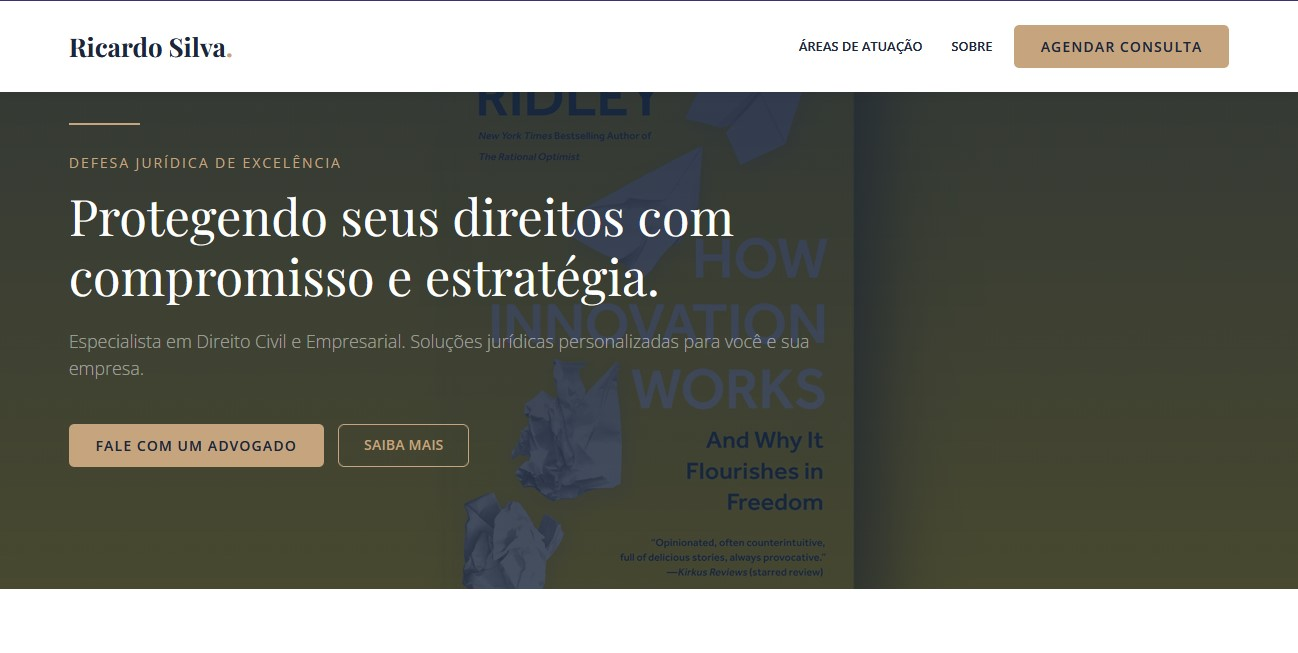
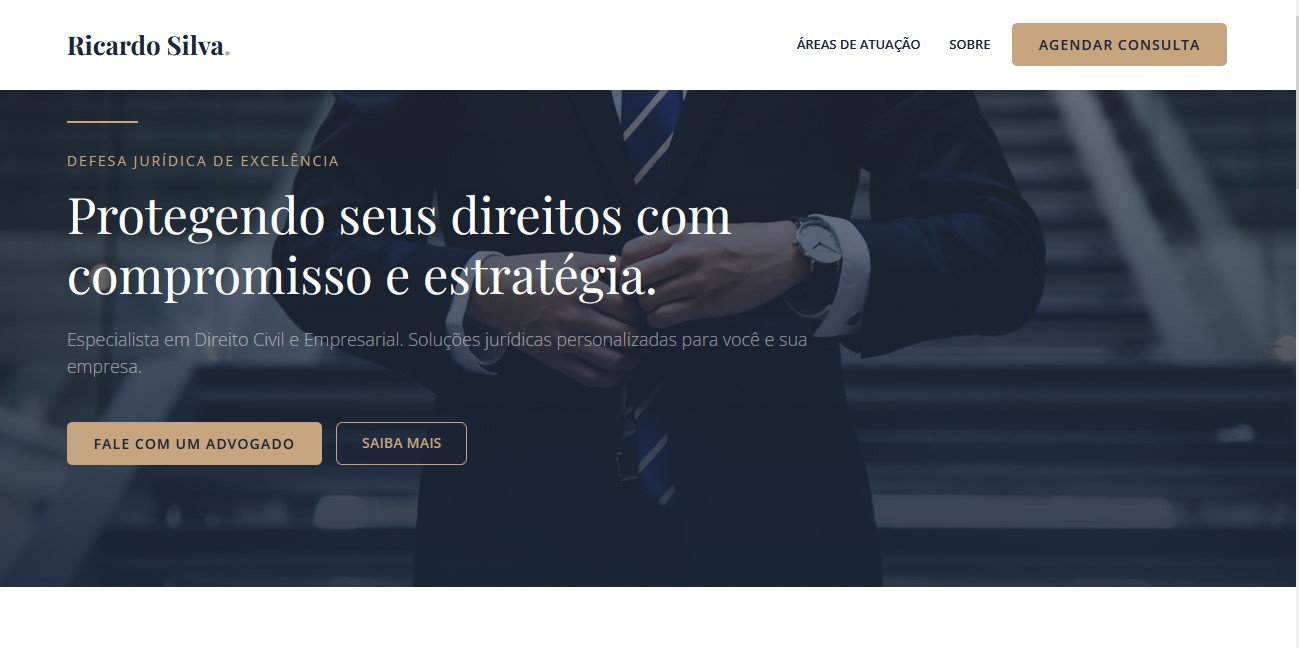
Ajustes no advogado e no personal

diff --git a/lps/advogado/index.html b/lps/advogado/index.html
@@ -1,13 +1,16 @@
 <!DOCTYPE html>
 <html lang="pt-br">
+
 <head>
     <meta charset="UTF-8">
     <meta name="viewport" content="width=device-width, initial-scale=1.0">
     <title>Dr. Ricardo Silva | Advocacia Especializada</title>
     <link href="https://cdn.jsdelivr.net/npm/bootstrap@5.3.0/dist/css/bootstrap.min.css" rel="stylesheet">
     <link href="https://cdnjs.cloudflare.com/ajax/libs/font-awesome/6.4.0/css/all.min.css" rel="stylesheet">
-    <link href="https://fonts.googleapis.com/css2?family=Playfair+Display:wght@400;700&family=Open+Sans:wght@300;400;600&display=swap" rel="stylesheet">
-    
+    <link
+        href="https://fonts.googleapis.com/css2?family=Playfair+Display:wght@400;700&family=Open+Sans:wght@300;400;600&display=swap"
+        rel="stylesheet">
+
     <style>
         :root {
             --navy: #1B263B;
@@ -15,58 +18,141 @@
             --white: #ffffff;
             --light-gray: #f4f4f4;
         }
-        body { font-family: 'Open Sans', sans-serif; color: #333; }
-        h1, h2, h3, h4, .navbar-brand { font-family: 'Playfair Display', serif; color: var(--navy); }
-        
+
+        body {
+            font-family: 'Open Sans', sans-serif;
+            color: #333;
+        }
+
+        h1,
+        h2,
+        h3,
+        h4,
+        .navbar-brand {
+            font-family: 'Playfair Display', serif;
+            color: var(--navy);
+        }
+
         /* Navbar */
-        .navbar { background: var(--white); box-shadow: 0 2px 10px rgba(0,0,0,0.05); padding: 1.5rem 0; }
-        .navbar-brand { font-weight: 700; font-size: 1.8rem; }
-        .nav-link { color: var(--navy); font-weight: 600; text-transform: uppercase; font-size: 0.9rem; margin-left: 1rem; }
-        .nav-link:hover { color: var(--gold); }
-        
+        .navbar {
+            background: var(--white);
+            box-shadow: 0 2px 10px rgba(0, 0, 0, 0.05);
+            padding: 1.5rem 0;
+        }
+
+        .navbar-brand {
+            font-weight: 700;
+            font-size: 1.8rem;
+        }
+
+        .nav-link {
+            color: var(--navy);
+            font-weight: 600;
+            text-transform: uppercase;
+            font-size: 0.9rem;
+            margin-left: 1rem;
+        }
+
+        .nav-link:hover {
+            color: var(--gold);
+        }
+
         /* Buttons */
         .btn-gold {
-            background-color: var(--gold); color: var(--navy);
-            border: none; padding: 12px 30px;
-            text-transform: uppercase; font-weight: 700; letter-spacing: 1px;
+            background-color: var(--gold);
+            color: var(--navy);
+            border: none;
+            padding: 12px 30px;
+            text-transform: uppercase;
+            font-weight: 700;
+            letter-spacing: 1px;
             transition: all 0.3s;
         }
-        .btn-gold:hover { background-color: var(--navy); color: var(--gold); }
-        
+
+        .btn-gold:hover {
+            background-color: var(--navy);
+            color: var(--gold);
+        }
+
         .btn-outline-gold {
-            border: 2px solid var(--gold); color: var(--gold);
-            padding: 10px 28px; text-transform: uppercase; font-weight: 700;
+            border: 2px solid var(--gold);
+            color: var(--gold);
+            padding: 10px 28px;
+            text-transform: uppercase;
+            font-weight: 700;
             transition: all 0.3s;
         }
-        .btn-outline-gold:hover { background-color: var(--gold); color: var(--navy); }
+
+        .btn-outline-gold:hover {
+            background-color: var(--gold);
+            color: var(--navy);
+        }
 
         /* Hero Section */
         .hero {
-            background: linear-gradient(rgba(27, 38, 59, 0.9), rgba(27, 38, 59, 0.8)), url('https://images.unsplash.com/photo-1589829085413-56de8ae18c73?auto=format&fit=crop&w=1920&q=80');
-            background-size: cover; background-position: center;
-            height: 90vh; display: flex; align-items: center;
+            background: linear-gradient(rgba(27, 38, 59, 0.5), rgba(27, 38, 59, 0.9)), url('https://images.unsplash.com/photo-1507679799987-c73779587ccf?auto=format&fit=crop&w=1920&q=80');
+            background-size: cover;
+            background-position: center;
+            height: 90vh;
+            display: flex;
+            align-items: center;
             color: var(--white);
         }
-        .hero h1 { color: var(--white); font-size: 3.5rem; margin-bottom: 1.5rem; }
-        .hero-line { width: 80px; height: 3px; background: var(--gold); margin-bottom: 2rem; }
+
+        .hero h1 {
+            color: var(--white);
+            font-size: 3.5rem;
+            margin-bottom: 1.5rem;
+        }
+
+        .hero-line {
+            width: 80px;
+            height: 3px;
+            background: var(--gold);
+            margin-bottom: 2rem;
+        }
 
         /* Services */
         .service-card {
-            padding: 3rem 2rem; border: 1px solid #eee; transition: all 0.3s;
-            height: 100%; border-top: 3px solid transparent;
+            padding: 3rem 2rem;
+            border: 1px solid #eee;
+            transition: all 0.3s;
+            height: 100%;
+            border-top: 3px solid transparent;
         }
-        .service-card:hover { border-top: 3px solid var(--gold); box-shadow: 0 10px 30px rgba(0,0,0,0.1); transform: translateY(-5px); }
-        .service-icon { font-size: 2.5rem; color: var(--gold); margin-bottom: 1.5rem; }
+
+        .service-card:hover {
+            border-top: 3px solid var(--gold);
+            box-shadow: 0 10px 30px rgba(0, 0, 0, 0.1);
+            transform: translateY(-5px);
+        }
+
+        .service-icon {
+            font-size: 2.5rem;
+            color: var(--gold);
+            margin-bottom: 1.5rem;
+        }
 
         /* About */
-        .about-section { background-color: var(--light-gray); }
-        
-        /* Contact */
-        .contact-info i { color: var(--gold); width: 30px; }
+        .about-section {
+            background-color: var(--light-gray);
+        }
 
-        footer { background: var(--navy); color: rgba(255,255,255,0.7); padding: 3rem 0; text-align: center; }
+        /* Contact */
+        .contact-info i {
+            color: var(--gold);
+            width: 30px;
+        }
+
+        footer {
+            background: var(--navy);
+            color: rgba(255, 255, 255, 0.7);
+            padding: 3rem 0;
+            text-align: center;
+        }
     </style>
 </head>
+
 <body>
 
     <!-- Navigation -->
@@ -93,9 +179,11 @@
         <div class="container">
             <div class="col-lg-8">
                 <div class="hero-line"></div>
-                <h6 class="text-uppercase text-white letter-spacing-2 mb-3" style="letter-spacing: 2px; color: var(--gold) !important;">Defesa Jurídica de Excelência</h6>
+                <h6 class="text-uppercase text-white letter-spacing-2 mb-3"
+                    style="letter-spacing: 2px; color: var(--gold) !important;">Defesa Jurídica de Excelência</h6>
                 <h1>Protegendo seus direitos com compromisso e estratégia.</h1>
-                <p class="lead mb-5 text-white-50">Especialista em Direito Civil e Empresarial. Soluções jurídicas personalizadas para você e sua empresa.</p>
+                <p class="lead mb-5 text-white-50">Especialista em Direito Civil e Empresarial. Soluções jurídicas
+                    personalizadas para você e sua empresa.</p>
                 <div class="d-flex gap-3">
                     <a href="#contato" class="btn btn-gold">Fale com um Advogado</a>
                     <a href="#atuacao" class="btn btn-outline-gold d-none d-md-inline-block">Saiba Mais</a>
@@ -117,21 +205,24 @@
                     <div class="service-card bg-white text-center">
                         <i class="fas fa-scale-balanced service-icon"></i>
                         <h4>Direito Civil</h4>
-                        <p class="text-muted mt-3">Resolução de conflitos, contratos, responsabilidade civil e contencioso estratégico.</p>
+                        <p class="text-muted mt-3">Resolução de conflitos, contratos, responsabilidade civil e
+                            contencioso estratégico.</p>
                     </div>
                 </div>
                 <div class="col-md-4">
                     <div class="service-card bg-white text-center">
                         <i class="fas fa-briefcase service-icon"></i>
                         <h4>Direito Empresarial</h4>
-                        <p class="text-muted mt-3">Assessoria completa para empresas, fusões, aquisições e compliance corporativo.</p>
+                        <p class="text-muted mt-3">Assessoria completa para empresas, fusões, aquisições e compliance
+                            corporativo.</p>
                     </div>
                 </div>
                 <div class="col-md-4">
                     <div class="service-card bg-white text-center">
                         <i class="fas fa-users service-icon"></i>
                         <h4>Direito de Família</h4>
-                        <p class="text-muted mt-3">Divórcios, inventários, guarda e pensão com total sigilo e acolhimento.</p>
+                        <p class="text-muted mt-3">Divórcios, inventários, guarda e pensão com total sigilo e
+                            acolhimento.</p>
                     </div>
                 </div>
             </div>
@@ -143,13 +234,17 @@
         <div class="container py-5">
             <div class="row align-items-center">
                 <div class="col-lg-6 mb-4 mb-lg-0">
-                    <img src="https://images.unsplash.com/photo-1556157382-97eda2d62296?auto=format&fit=crop&w=800&q=80" alt="Advogado" class="img-fluid shadow-lg rounded">
+                    <img src="https://images.unsplash.com/photo-1556157382-97eda2d62296?auto=format&fit=crop&w=800&q=80"
+                        alt="Advogado" class="img-fluid shadow-lg rounded">
                 </div>
                 <div class="col-lg-6 ps-lg-5">
                     <h6 class="text-uppercase" style="color: var(--gold); letter-spacing: 2px;">Sobre o Escritório</h6>
                     <h2 class="mb-4">Experiência e Confiança</h2>
-                    <p class="text-muted mb-4">Com mais de 15 anos de atuação, nosso escritório se destaca pela ética, transparência e resultados. Entendemos que por trás de cada processo existe uma história e uma necessidade real.</p>
-                    <p class="text-muted mb-4">Nossa missão é prover segurança jurídica para que nossos clientes possam focar no que realmente importa em suas vidas e negócios.</p>
+                    <p class="text-muted mb-4">Com mais de 15 anos de atuação, nosso escritório se destaca pela ética,
+                        transparência e resultados. Entendemos que por trás de cada processo existe uma história e uma
+                        necessidade real.</p>
+                    <p class="text-muted mb-4">Nossa missão é prover segurança jurídica para que nossos clientes possam
+                        focar no que realmente importa em suas vidas e negócios.</p>
                     <div class="row mt-4">
                         <div class="col-6">
                             <h2 class="display-4 fw-bold" style="color:var(--navy)">15+</h2>
@@ -171,8 +266,9 @@
             <div class="row justify-content-center">
                 <div class="col-lg-8 text-center">
                     <h2 class="mb-4">Precisa de orientação jurídica?</h2>
-                    <p class="lead text-muted mb-5">Agende uma consulta inicial para analisarmos o seu caso com a atenção que ele merece.</p>
-                    
+                    <p class="lead text-muted mb-5">Agende uma consulta inicial para analisarmos o seu caso com a
+                        atenção que ele merece.</p>
+
                     <div class="d-flex flex-column flex-md-row justify-content-center gap-4 mb-5 contact-info">
                         <div class="d-flex align-items-center justify-content-center">
                             <i class="fab fa-whatsapp"></i>
@@ -192,10 +288,12 @@
 
     <footer>
         <div class="container">
-            <p class="mb-0">&copy; 2026 Ricardo Silva Advocacia. Todos os direitos reservados. Design by Cleriston Jr.</p>
+            <p class="mb-0">&copy; 2026 Ricardo Silva Advocacia. Todos os direitos reservados. Design by Cleriston Jr.
+            </p>
         </div>
     </footer>
 
     <script src="https://cdn.jsdelivr.net/npm/bootstrap@5.3.0/dist/js/bootstrap.bundle.min.js"></script>
 </body>
+
 </html>

diff --git a/lps/personal-trainer/index.html b/lps/personal-trainer/index.html
@@ -195,7 +195,7 @@
                     <h2 class="display-4 fw-bold">ESCOLHA SEU <span class="highlight">FOCO</span></h2>
                 </div>
                 <div class="col-lg-6 d-flex align-items-end">
-                    <p class="text-muted">Planos adaptados para todos os níveis, do iniciante ao avançado.</p>
+                    <p class="text-white-50">Planos adaptados para todos os níveis, do iniciante ao avançado.</p>
                 </div>
             </div>
 
@@ -204,7 +204,7 @@
                     <div class="program-card">
                         <i class="fas fa-dumbbell fa-3x mb-4 highlight"></i>
                         <h3>Hipertrofia</h3>
-                        <p class="text-muted">Ganho de massa muscular sólida com treinos periodizados para força e
+                        <p class="text-white-50">Ganho de massa muscular sólida com treinos periodizados para força e
                             volume. Chega de treinar fofo.</p>
                     </div>
                 </div>
@@ -212,7 +212,8 @@
                     <div class="program-card">
                         <i class="fas fa-fire fa-3x mb-4 highlight"></i>
                         <h3>Emagrecimento</h3>
-                        <p class="text-muted">Queima de gordura acelerada mantendo a massa magra. Treinos metabólicos de
+                        <p class="text-white-50">Queima de gordura acelerada mantendo a massa magra. Treinos metabólicos
+                            de
                             alta intensidade.</p>
                     </div>
                 </div>
@@ -220,7 +221,7 @@
                     <div class="program-card">
                         <i class="fas fa-running fa-3x mb-4 highlight"></i>
                         <h3>Condicionamento</h3>
-                        <p class="text-muted">Melhore sua resistência cardiovascular e mobilidade. Prepare-se para
+                        <p class="text-white-50">Melhore sua resistência cardiovascular e mobilidade. Prepare-se para
                             provas e previna lesões.</p>
                     </div>
                 </div>
@@ -235,21 +236,22 @@
                 <div class="col-md-4 mb-4">
                     <div class="bg-dark p-3 border border-dark">
                         <h4 class="mb-3">-15kg em 3 Meses</h4>
-                        <p class="small text-muted">"O método do Max mudou não só meu corpo, mas minha disciplina." -
+                        <p class="small text-white-50">"O método do Max mudou não só meu corpo, mas minha disciplina." -
                             João Silva</p>
                     </div>
                 </div>
                 <div class="col-md-4 mb-4">
                     <div class="bg-dark p-3 border border-dark">
                         <h4 class="mb-3">Definição Extrema</h4>
-                        <p class="small text-muted">"Nunca consegui ver meu abdômen até começar essa consultoria." -
+                        <p class="small text-white-50">"Nunca consegui ver meu abdômen até começar essa consultoria." -
                             Pedro Costa</p>
                     </div>
                 </div>
                 <div class="col-md-4 mb-4">
                     <div class="bg-dark p-3 border border-dark">
                         <h4 class="mb-3">Mais Energia</h4>
-                        <p class="small text-muted">"Treinos rápidos e eficientes que cabem na minha rotina corrida." -
+                        <p class="small text-white-50">"Treinos rápidos e eficientes que cabem na minha rotina corrida."
+                            -
                             Maria Eduarda</p>
                     </div>
                 </div>
@@ -261,7 +263,8 @@
         <div class="container py-5">
             <div class="p-5" style="background: linear-gradient(45deg, #111, #222); border: 1px solid #333;">
                 <h2 class="display-5 fw-bold mb-4">ESTÁ PRONTO PARA MUDAR?</h2>
-                <p class="lead text-muted mb-5">As vagas para a consultoria premium são limitadas. Garanta a sua agora.
+                <p class="lead text-white-50 mb-5">As vagas para a consultoria premium são limitadas. Garanta a sua
+                    agora.
                 </p>
                 <a href="#" class="btn btn-neon btn-lg"><i class="fab fa-whatsapp me-2"></i> Entrar pro Time</a>
             </div>
@@ -276,7 +279,7 @@
                 <a href="#" class="text-white h4"><i class="fab fa-youtube"></i></a>
                 <a href="#" class="text-white h4"><i class="fab fa-tiktok"></i></a>
             </div>
-            <p class="small text-muted mb-0">&copy; 2026 Coach Max. Todos os direitos reservados. Design by Cleriston
+            <p class="small text-white-50 mb-0">&copy; 2026 Coach Max. Todos os direitos reservados. Design by Cleriston
                 Jr.</p>
         </div>
     </footer>
